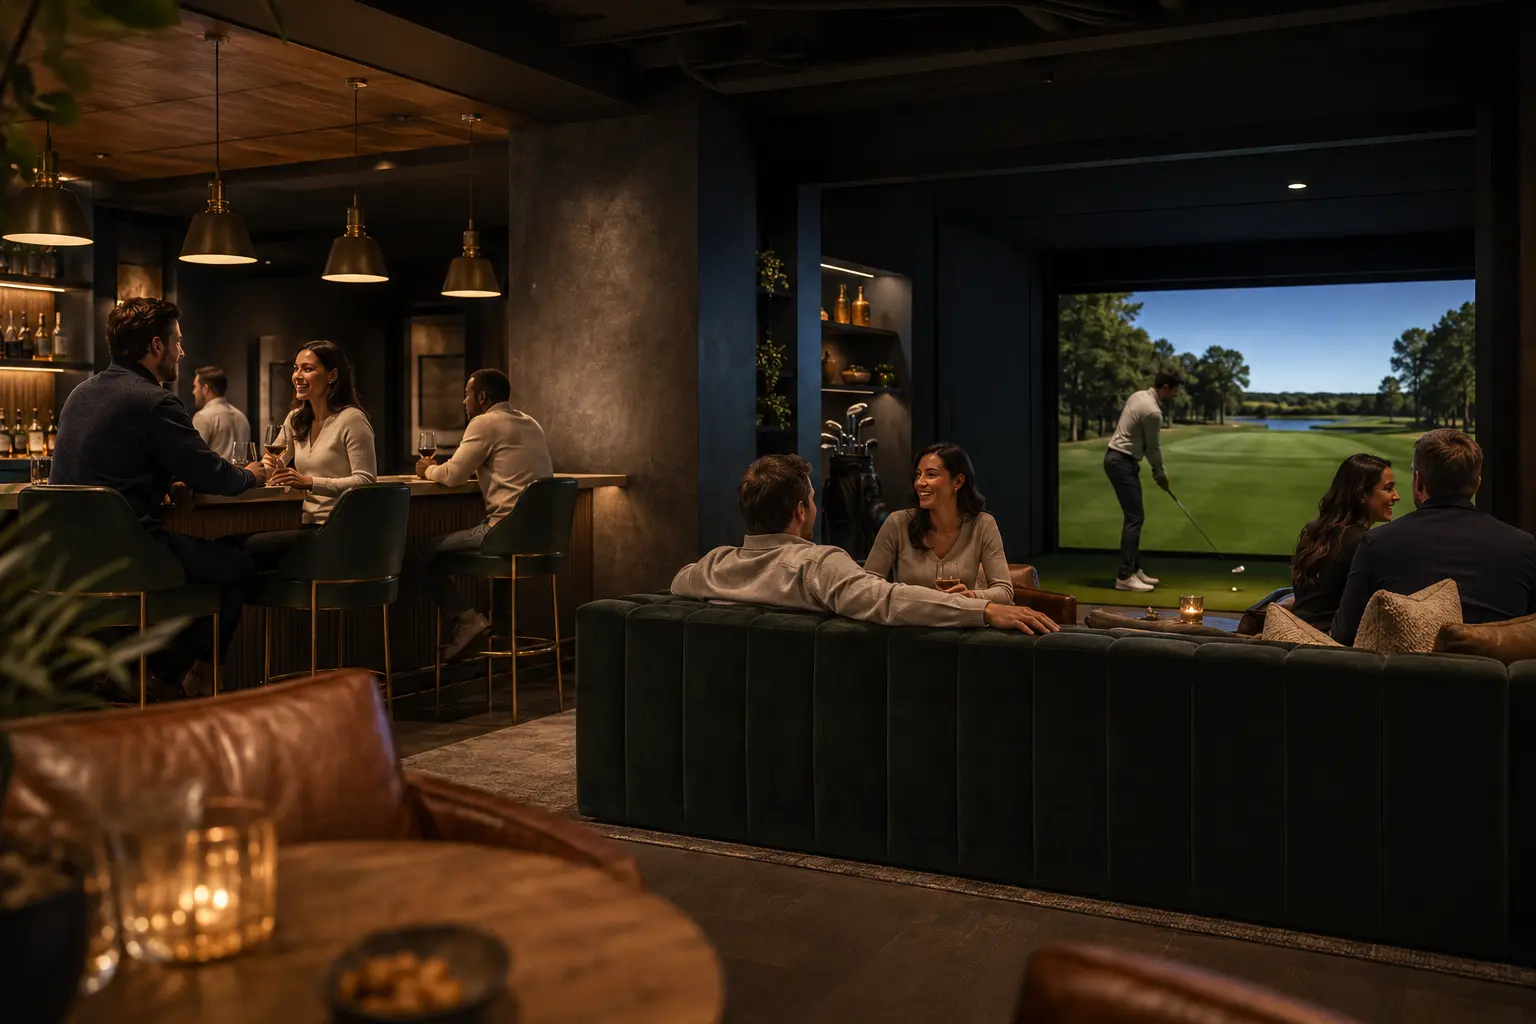
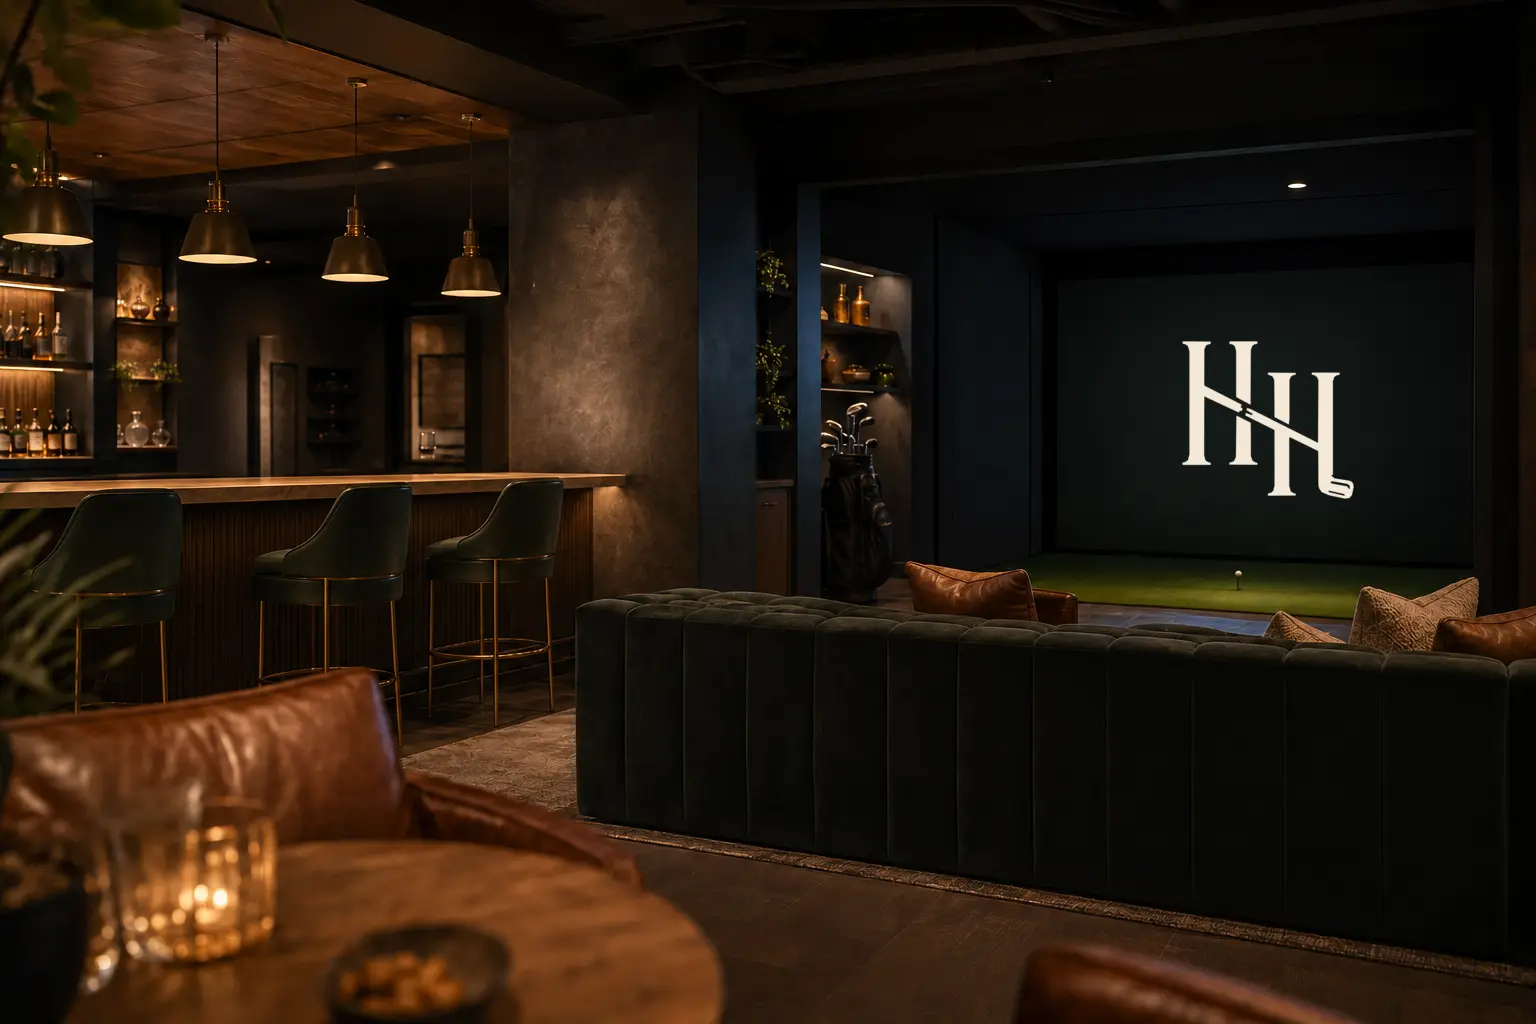
Extend impact sequence and refresh lounge rendering

diff --git a/app/globals.css b/app/globals.css
@@ -59,7 +59,7 @@ body,body a,body button,body summary{cursor:auto!important}
 @media(max-width:620px){.shot-visual{height:180px}.shot-driver{left:-65px;bottom:-18px;width:270px}.shot-captured{right:12px;top:34px}.shot-tee{left:72.8%}.shot-ball,.shot-impact{left:71.7%}.shot-trail{left:74%;width:180px}.tech-cluster{grid-template-columns:repeat(2,1fr)}.tech-cluster article{min-height:76px}.tech-cluster article:nth-child(3n){border-right:1px solid var(--line)}.tech-cluster article:nth-child(2n){border-right:0}.tech-cluster strong{font-size:22px}.mode-tabs{gap:20px}}
 
 /* High-speed impact study: real-world scale, shallow driver delivery, and a 13.6-degree launch. */
-.sim-card{--shot-cycle:4s}
+.sim-card{--shot-cycle:10s}
 .shot-driver{left:calc(50% - 160px);bottom:13px;width:190px;--driver-start-x:-120px;--driver-impact-x:0px;--driver-follow-x:70px;animation:driverScaledImpact var(--shot-cycle) cubic-bezier(.22,.61,.36,1) infinite;backface-visibility:hidden}
 .shot-ball{left:calc(50% - 14px);bottom:34px;width:28px;height:28px;background:radial-gradient(circle at 3px 3px,rgba(80,80,76,.22) 0 .8px,transparent 1.35px) 0 0/7px 7px,radial-gradient(circle at 3px 3px,rgba(80,80,76,.18) 0 .8px,transparent 1.35px) 3.5px 3.5px/7px 7px,radial-gradient(circle at 34% 28%,#fff 0 20%,#f0eee8 52%,#b9b6ae 100%);box-shadow:inset -4px -5px 7px rgba(75,76,72,.28),0 2px 4px rgba(0,0,0,.4);animation:ballScaledFlight var(--shot-cycle) cubic-bezier(.18,.68,.28,1) infinite;transform-origin:left center;backface-visibility:hidden}
 .shot-tee{left:calc(50% - 1px);bottom:17px;height:24px;animation:teeScaledImpact var(--shot-cycle) ease-out infinite}
@@ -72,20 +72,16 @@ body,body a,body button,body summary{cursor:auto!important}
 @keyframes trailScaledFlight{0%,34%{transform:rotate(-13.6deg) scaleX(0);opacity:0}39%{transform:rotate(-13.6deg) scaleX(.2);opacity:1}52%{transform:rotate(-13.6deg) scaleX(1);opacity:.72}59%,100%{transform:rotate(-13.6deg) scaleX(1);opacity:0}}
 @keyframes ringScaledImpact{0%,31%{transform:scale(.4);opacity:0}34%{transform:scale(1.35);opacity:1}40%{transform:scale(3.4);opacity:.35}47%,100%{transform:scale(4.5);opacity:0}}
 @keyframes teeScaledImpact{0%,33%{transform:rotate(0);opacity:1}38%{transform:rotate(28deg);opacity:1}47%,100%{transform:translate3d(8px,4px,0) rotate(72deg);opacity:0}}
-@keyframes captureScaledImpact{0%,46%{transform:translate3d(8px,0,0);opacity:0}50%,96%{transform:translate3d(0,0,0);opacity:1}99%,100%{transform:translate3d(0,0,0);opacity:0}}
-@keyframes metricsScaledImpact{0%,48%{transform:translate3d(0,8px,0);opacity:0}52%,96%{transform:translate3d(0,0,0);opacity:1}99%,100%{transform:translate3d(0,0,0);opacity:0}}
+@keyframes captureScaledImpact{0%,37%{transform:translate3d(8px,0,0);opacity:0}41%,96%{transform:translate3d(0,0,0);opacity:1}99%,100%{transform:translate3d(0,0,0);opacity:0}}
+@keyframes metricsScaledImpact{0%,39%{transform:translate3d(0,8px,0);opacity:0}43%,96%{transform:translate3d(0,0,0);opacity:1}99%,100%{transform:translate3d(0,0,0);opacity:0}}
 @media(max-width:620px){.shot-driver{left:calc(50% - 127px);bottom:13px;width:150px;--driver-start-x:-90px;--driver-impact-x:0px;--driver-follow-x:55px}.shot-ball,.shot-impact{left:calc(50% - 12px);width:24px;height:24px}.shot-ball{bottom:34px}.shot-impact{bottom:34px}.shot-tee{left:calc(50% - 1px);bottom:17px}.shot-trail{left:calc(50% + 10px);bottom:45px;width:175px}}
 
 /* Brand-colored launch-monitor gauges. */
 .tech-cluster .metric-1{--metric-color:var(--gold);--gauge:82%}.tech-cluster .metric-2{--metric-color:#6fc499;--gauge:61%}.tech-cluster .metric-3{--metric-color:var(--cream);--gauge:46%}.tech-cluster .metric-4{--metric-color:#8fa69a;--gauge:64%}.tech-cluster .metric-5{--metric-color:var(--gold);--gauge:96%}
 .metric-gauge{display:block;position:relative;width:100%;height:3px;margin-top:7px;background:rgba(244,233,216,.1);overflow:visible}.metric-gauge:after{content:"";position:absolute;left:50%;top:-2px;width:1px;height:7px;background:rgba(244,233,216,.28)}.metric-gauge b{display:block;width:var(--gauge);height:100%;background:var(--metric-color);box-shadow:0 0 8px color-mix(in srgb,var(--metric-color) 65%,transparent);transform:scaleX(0);transform-origin:left;animation:metricGaugeFill var(--shot-cycle) linear infinite;will-change:transform,opacity}.impact-face{border-color:rgba(111,196,153,.55);box-shadow:inset 0 0 14px rgba(33,76,58,.45)}
-@keyframes metricGaugeFill{0%,50%{transform:scaleX(0);opacity:0}56%,96%{transform:scaleX(1);opacity:1}99%,100%{transform:scaleX(1);opacity:0}}
+@keyframes metricGaugeFill{0%,41%{transform:scaleX(0);opacity:0}47%,96%{transform:scaleX(1);opacity:1}99%,100%{transform:scaleX(1);opacity:0}}
 
-/* Photoreal high-speed impact sequence; statistics remain unchanged below. */
-.shot-visual{height:230px;background:#0d110f}.shot-visual:before{content:"HIGH-SPEED IMPACT STUDY";z-index:4;text-shadow:0 1px 8px #000}.shot-visual:after{z-index:4;text-shadow:0 1px 8px #000}.impact-frames{position:absolute;inset:0;overflow:hidden}.impact-frames:after{content:"";position:absolute;inset:0;z-index:3;background:linear-gradient(180deg,rgba(5,8,7,.22),transparent 32%,transparent 72%,rgba(5,8,7,.36)),linear-gradient(90deg,rgba(5,8,7,.12),transparent 28%,transparent 75%,rgba(5,8,7,.18));pointer-events:none}.impact-frame{position:absolute;inset:0;width:100%;height:100%;object-fit:cover;object-position:center;opacity:0;filter:saturate(.92) contrast(1.04);will-change:opacity,transform;backface-visibility:hidden}.impact-frame--1{animation:impactFrameApproach var(--shot-cycle) ease-in-out infinite}.impact-frame--2{opacity:1;animation:impactFrameCompression var(--shot-cycle) ease-in-out infinite}.impact-frame--3{animation:impactFrameLaunch var(--shot-cycle) ease-in-out infinite}.impact-frame--4{animation:impactFrameFlight var(--shot-cycle) ease-in-out infinite}.impact-frame--5{animation:impactFrameExit var(--shot-cycle) ease-in-out infinite}.shot-captured{z-index:5}
-@keyframes impactFrameApproach{0%,10%{opacity:1;transform:scale(1)}20%,100%{opacity:0;transform:scale(1.012)}}
-@keyframes impactFrameCompression{0%,10%{opacity:0;transform:scale(1.006)}17%,28%{opacity:1;transform:scale(1.016)}37%,100%{opacity:0;transform:scale(1.024)}}
-@keyframes impactFrameLaunch{0%,26%{opacity:0;transform:scale(1.014)}34%,45%{opacity:1;transform:scale(1.026)}54%,100%{opacity:0;transform:scale(1.034)}}
-@keyframes impactFrameFlight{0%,43%{opacity:0;transform:scale(1.022)}51%,62%{opacity:1;transform:scale(1.034)}71%,100%{opacity:0;transform:scale(1.042)}}
-@keyframes impactFrameExit{0%,58%{opacity:0;transform:scale(1.03)}66%,96%{opacity:1;transform:scale(1.042)}100%{opacity:0;transform:scale(1.046)}}
-@media(max-width:620px){.shot-visual{height:200px}.impact-frame{object-position:center}}
+/* A continuous 60 fps impact study avoids still-frame stepping and carries the club through the shot. */
+.shot-visual{height:230px;background:#0d110f}.shot-visual:before{content:"HIGH-SPEED IMPACT STUDY";z-index:4;text-shadow:0 1px 8px #000}.shot-visual:after{z-index:4;text-shadow:0 1px 8px #000}.impact-media{position:absolute;inset:0;overflow:hidden}.impact-media:after{content:"";position:absolute;inset:0;z-index:3;background:linear-gradient(180deg,rgba(5,8,7,.2),transparent 32%,transparent 72%,rgba(5,8,7,.34)),linear-gradient(90deg,rgba(5,8,7,.1),transparent 28%,transparent 75%,rgba(5,8,7,.16));pointer-events:none}.impact-video,.impact-video-poster{position:absolute;inset:0;width:100%;height:100%;object-fit:cover;object-position:center;filter:saturate(.94) contrast(1.04)}.impact-video-poster{z-index:0}.impact-video{z-index:1;display:block}.shot-captured{z-index:5}
+@media(max-width:620px){.shot-visual{height:200px}.impact-video,.impact-video-poster{object-position:center}}
+@media(prefers-reduced-motion:reduce){.impact-video{display:none}.impact-video-poster{display:block}}

diff --git a/app/page.tsx b/app/page.tsx
@@ -111,12 +111,11 @@ export default function Home() {
         <div className="sim-card" aria-label="Animated conceptual launch monitor displaying club and impact data">
           <div className="sim-topline"><span>Bay 01</span><span className="sim-status"><i /> Shot analysis</span></div>
           <div className="shot-visual" aria-hidden="true">
-            <div className="impact-frames">
-              <img className="impact-frame impact-frame--1" src="/images/impact-frame-1.webp" alt="" width="1672" height="941" fetchPriority="high" />
-              <img className="impact-frame impact-frame--2" src="/images/impact-frame-2.webp" alt="" width="1672" height="941" />
-              <img className="impact-frame impact-frame--3" src="/images/impact-frame-3.webp" alt="" width="1672" height="941" />
-              <img className="impact-frame impact-frame--4" src="/images/impact-frame-4.webp" alt="" width="1672" height="941" />
-              <img className="impact-frame impact-frame--5" src="/images/impact-frame-5.webp" alt="" width="1672" height="941" />
+            <div className="impact-media">
+              <img className="impact-video-poster" src="/images/impact-video-poster.webp" alt="" width="1440" height="664" fetchPriority="high" />
+              <video className="impact-video" autoPlay loop muted playsInline preload="auto" poster="/images/impact-video-poster.webp">
+                <source src="/videos/impact-slow-motion.mp4" type="video/mp4" />
+              </video>
             </div>
             <div className="shot-captured"><b>Impact captured</b><small>Club + ball data synchronized</small></div>
           </div>